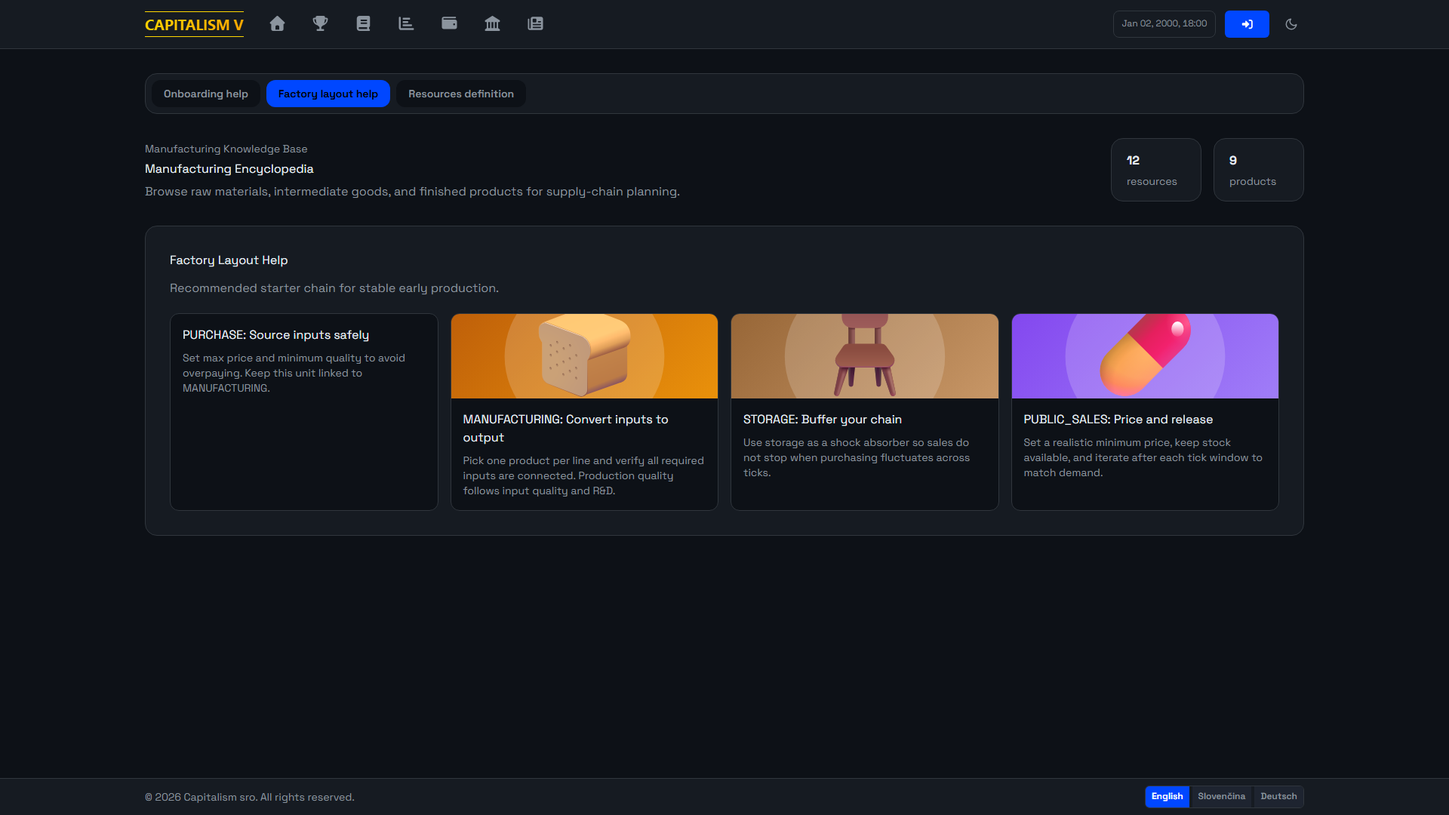
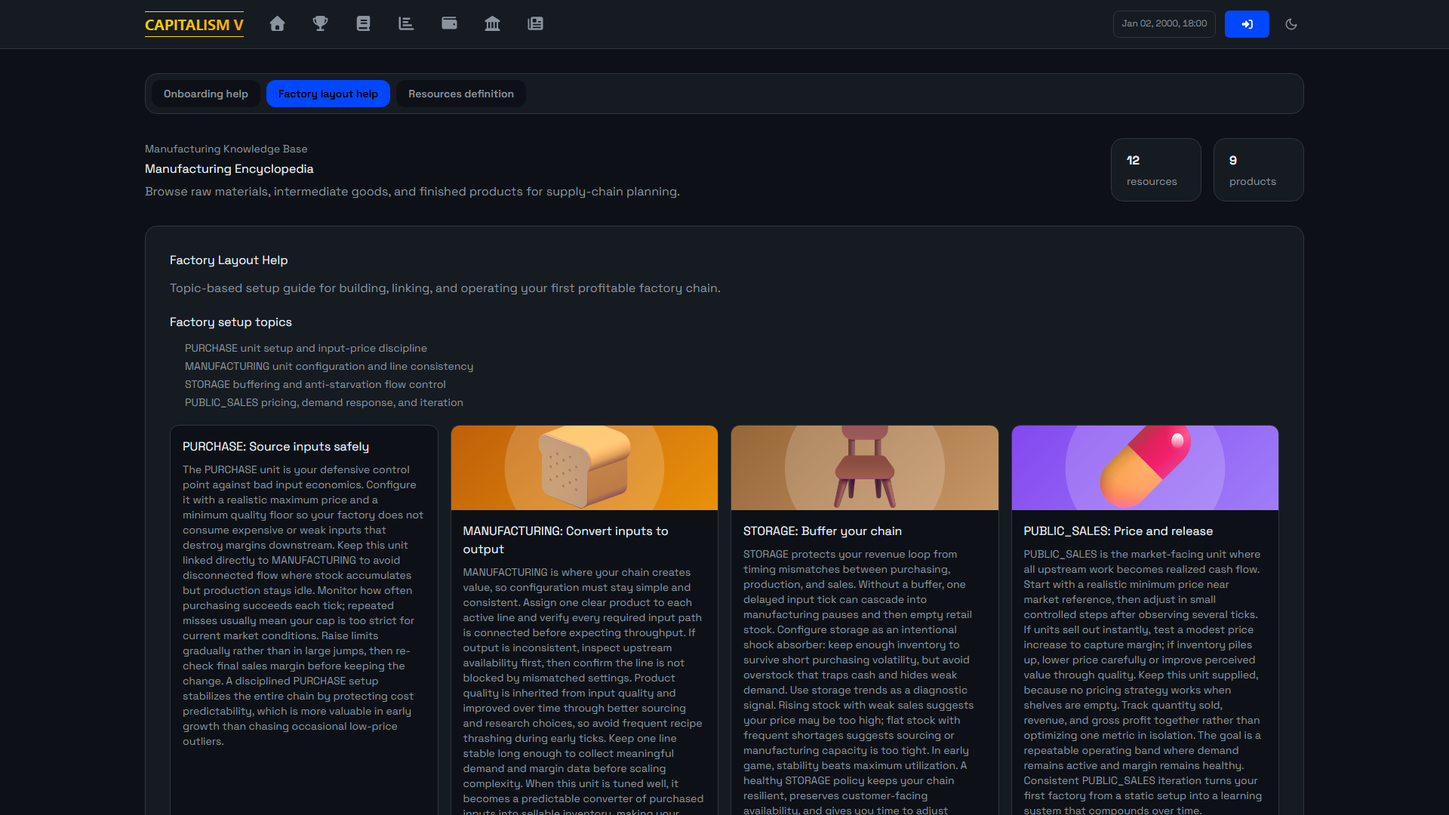
Refactor code structure for improved readability and maintainability

Changed region(s): [[0.125, 0.3361, 0.9062, 1.0], [0.0938, 0.9472, 0.25, 1.0]]

diff --git a/projects/frontend/src/i18n/locales/de.ts b/projects/frontend/src/i18n/locales/de.ts
@@ -625,17 +625,23 @@ export default {
     onboardingGuideTitle: 'Onboarding-Hilfe',
     onboardingGuideSubtitle: 'Eine vollständige Screenshot-Anleitung durch jede Onboarding-Entscheidung von Branche bis zum ersten Shop.',
     onboardingGuideStep1Title: 'Schritt 1 - Startbranche wählen',
-    onboardingGuideStep1Body: 'Sie wählen Ihren Business-Stil und Ihr Risikoprofil. Möbel ist meist der stabilste Einstieg, Food ist volumengetrieben, Healthcare zielt auf höhere Stückmargen.',
+    onboardingGuideStep1Body:
+      'In diesem Schritt legen Sie die unternehmerische Identität fest, auf der Ihr gesamter Start basiert. Möbel ist der robusteste Einstieg, weil die ersten Inputketten einfacher sind und die Nachfrage meist stabil bleibt. Lebensmittelverarbeitung trainiert Volumensteuerung, bei der kleine Preisänderungen große Absatzwirkungen haben können. Gesundheitswesen startet anspruchsvoller, belohnt aber saubere Ausführung mit höheren Margen pro Einheit. Vergleichen Sie beim Auswählen Starterprodukte, Herstellungstempo und die operative Komplexität, die Sie in Ihrer ersten Stunde tragen möchten. Ihre Branchenwahl bestimmt Produktionsrhythmus, frühe Preisstrategie und wie schnell Sie einen verlässlichen Cashflow erreichen, der für Expansion in weitere Produkte oder Städte geeignet ist.',
     onboardingGuideStep2Title: 'Schritt 2 - Starterprodukt festlegen',
-    onboardingGuideStep2Body: 'Sie fixieren das erste Produkt Ihrer Kette. Diese Wahl steuert die ersten Inputs, Zielpreise und die frühe Nachfragesensitivität.',
+    onboardingGuideStep2Body:
+      'Hier fixieren Sie das konkrete Starterprodukt, das Ihre erste Fabrik herstellt und Ihr erster Shop verkauft. Diese Entscheidung ist nicht nur visuell, sondern ändert Inputbedarf, Kostenverhalten und Ihren realistischen Einstiegspreisbereich. Lesen Sie Produktkarte, Basispreis und Fertigungstakt genau, denn diese Werte prägen frühe Marge und Lagerumschlag. Ein schnelleres Produkt gibt Ihnen schnelleres Lernfeedback, ein höherpreisiges Produkt verstärkt dagegen Fehlkonfigurationen stärker. Wählen Sie mit Blick auf die ersten zehn Ticks: genug Nachfrage für klare Signale, genug Marge für Stabilität und eine Kette, die Sie ohne Überforderung steuern können. So erhalten Sie früh belastbare Daten, statt in den ersten Runden nur auf kurzfristige Zufälle zu reagieren.',
     onboardingGuideStep3Title: 'Schritt 3 - Stadt auswählen',
-    onboardingGuideStep3Body: 'Sie legen den Stadtkontext fest. Währung, Grundstücksverfügbarkeit und lokale Ökonomie beeinflussen sofort Kosten und spätere Expansion.',
+    onboardingGuideStep3Body:
+      'Mit der Stadtwahl definieren Sie Ihr wirtschaftliches Startgelände. Der Währungskontext beeinflusst Preiswahrnehmung, Budgetvergleich und die praktische Bezahlbarkeit von Grundstücken und Folgeschritten. Die Verfügbarkeit passender Lots entscheidet, wie schnell Sie ohne Überzahlung eine lauffähige Kette aufbauen. Lokale Marktbedingungen wirken auf Nachfrage und darauf, wie aggressiv Ihre erste Verkaufspreissetzung sein darf. Denken Sie strategisch: Sie brauchen nicht die prestigeträchtigste Lage, sondern ein Umfeld, das Fabrik- und Shopkauf ermöglicht und gleichzeitig Liquidität für Betriebsschwankungen lässt. Wenn nach den beiden Grundstückskäufen kaum Reserve übrig bleibt, wird jede kleine Abweichung im Einkauf oder Verkauf kritisch. Eine kluge Stadtwahl schafft daher operativen Spielraum und beschleunigt sichere Lernzyklen.',
     onboardingGuideStep4Title: 'Schritt 4 - IPO-Plan wählen',
-    onboardingGuideStep4Body: 'Sie balancieren Gründeranteil gegen Startkapital. Mehr externes Kapital erhöht die Startreserve, reduziert aber Ihren Eigentumsanteil.',
+    onboardingGuideStep4Body:
+      'Der IPO-Plan ist ein bewusstes Verhältnis von Kontrolle zu Startreichweite. Niedrigeres Raise hält Ihren Gründeranteil höher, reduziert jedoch die Liquiditätsreserve für Grundstücke, Konfiguration und frühe Fehlentscheidungen. Höheres Raise gibt Sicherheit und mehr operative Luft, verwässert dafür Ihren Eigentumsanteil stärker. Es gibt keine universelle Bestwahl: Anfänger profitieren oft von zusätzlichem Puffer, erfahrene Spieler können mit engerem Kapital effizienter starten. Lesen Sie Founder Ownership und Public Float als strategische Hebel, nicht als reine Anzeigezahlen. Diese Werte prägen, wie risikofreudig Sie in den ersten Zyklen agieren können und wie stark Ihr langfristiger Vermögensaufbau pro erfolgreicher Expansion ausfällt. Ein passender IPO-Plan stabilisiert die erste Woche Ihrer Wirtschaftssimulation spürbar.',
     onboardingGuideStep5Title: 'Schritt 5 - Erstes Fabrikgrundstück kaufen',
-    onboardingGuideStep5Body: 'Sie sichern den Produktionsstandort und bestätigen den Einsatz von Firmengeldern. Halten Sie genug Kapital für Einheiten und den Shopkauf zurück.',
+    onboardingGuideStep5Body:
+      'Jetzt wird aus Planung ein realer Produktionsstandort. Mit dem Kauf des ersten Fabrik-Lots binden Sie Kapital und definieren die physische Basis Ihrer Lieferkette. Entscheiden Sie nicht nach Prestige, sondern nach Überlebensfähigkeit der nächsten Schritte. Nach diesem Kauf benötigen Sie weiterhin Mittel für den Shop-Lot und genügend Reserve für operative Anpassungen. Nutzen Sie Karten- oder Listenansicht, vergleichen Sie Optionen und wählen Sie ein Lot, das Ihre Strategie finanziell flexibel hält. Ein etwas günstigeres Grundstück liefert oft den besseren Start, weil Sie Einkauf, Preisanpassung und Taktfehler ohne sofortigen Liquiditätsdruck abfedern können. Betrachten Sie den Fabrikkauf als Kettenanker: Er muss nicht nur passen, sondern den gesamten Startprozess stabil tragen.',
     onboardingGuideStep6Title: 'Schritt 6 - Erstes Shopgrundstück kaufen',
-    onboardingGuideStep6Body: 'Sie schließen den ersten Go-to-Market-Pfad ab. Nach der Konfiguration bestimmen ÖFFENTLICHER_VERKAUF-Preise und Tick-Timing die Geschwindigkeit der ersten Umsätze.',
+    onboardingGuideStep6Body:
+      'Mit diesem letzten Kauf schließen Sie Ihren ersten Go-to-Market-Pfad. Das Shop-Lot ist die Stelle, an der Produktionsleistung in echten Umsatz übergeht. Nach dem Kauf folgt die entscheidende operative Feinarbeit: PUBLIC_SALES sauber konfigurieren, realistischen Mindestpreis setzen, Bestandsfluss sicherstellen und die nächsten Ticks aufmerksam beobachten. Zu Beginn ist Lernqualität wichtiger als Maximalmarge, daher sollte die Preisstrategie schnelle Rückmeldung ermöglichen. Sobald die ersten Verkäufe erscheinen, können Sie strukturiert mit Preiselastizität experimentieren und die Marge kontrolliert erhöhen. Wenn dieser Schritt sauber gelingt, entsteht ein stabiler Kreislauf aus Produktion, Verkauf und Auswertung. Genau dieser Kreislauf macht den Übergang vom Onboarding zur skalierbaren Unternehmensführung möglich.',
     onboardingGuideStepIndustryTitle: '1. Startbranche wählen',
     onboardingGuideStepIndustryBody: 'Wählen Sie Möbel, Lebensmittelverarbeitung oder Gesundheitswesen. Das bestimmt Ihre erste Lieferkette und Preislogik.',
     onboardingGuideStepProductTitle: '2. Erstes Produkt festlegen',
@@ -645,15 +651,24 @@ export default {
     onboardingGuideStepShopTitle: '4. Ersten Shop öffnen',
     onboardingGuideStepShopBody: 'Kaufen Sie das Shop-Grundstück, konfigurieren Sie den ÖFFENTLICHEN_VERKAUF und beobachten Sie die nächsten Ticks für den ersten Umsatz.',
     manufacturingGuideTitle: 'Fabriklayout-Hilfe',
-    manufacturingGuideSubtitle: 'Empfohlene Starterkette für stabile frühe Produktion.',
+    manufacturingGuideSubtitle: 'Themenorientierter Leitfaden zum Aufbau, zur Verknüpfung und zum stabilen Betrieb Ihrer ersten profitablen Fabrikkette.',
+    manufacturingGuideTopicsTitle: 'Themen für das Fabrik-Setup',
+    manufacturingGuideTopicPurchase: 'EINKAUF konfigurieren und Inputkosten diszipliniert steuern',
+    manufacturingGuideTopicManufacturing: 'PRODUKTION sauber einstellen und Linienkonsistenz sichern',
+    manufacturingGuideTopicStorage: 'LAGER als Puffer gegen Kettenunterbrechungen nutzen',
+    manufacturingGuideTopicPublicSales: 'ÖFFENTLICHER_VERKAUF bepreisen und nach Nachfrage iterieren',
     manufacturingGuideStepPurchaseTitle: 'EINKAUF: Inputs sicher beschaffen',
-    manufacturingGuideStepPurchaseBody: 'Setzen Sie Maximalpreis und Mindestqualität, um Überzahlung zu vermeiden. Diese Einheit mit PRODUKTION verlinken.',
+    manufacturingGuideStepPurchaseBody:
+      'Die EINKAUF-Einheit ist Ihr Kosten-Schutzschild. Konfigurieren Sie einen sinnvollen Maximalpreis und eine Mindestqualität, damit Ihre Fabrik keine teuren oder schwachen Inputs konsumiert, die später Marge vernichten. Halten Sie die Einheit direkt mit PRODUKTION verbunden, sonst sammeln sich Bestände, ohne dass Output entsteht. Beobachten Sie Tick für Tick, wie oft Beschaffung erfolgreich läuft. Häufige Fehlschläge deuten oft auf zu enge Limits im aktuellen Markt hin. Erhöhen Sie Grenzen schrittweise und prüfen Sie danach immer den Effekt auf den realen Verkaufsgewinn. Eine disziplinierte EINKAUF-Konfiguration macht Kosten planbar und stabilisiert die gesamte Kette. Gerade im frühen Spiel ist diese Vorhersehbarkeit wertvoller als sporadische Schnäppchen mit hohem Ausfallrisiko.',
     manufacturingGuideStepManufactureTitle: 'PRODUKTION: Inputs in Output umwandeln',
-    manufacturingGuideStepManufactureBody: 'Wählen Sie pro Linie ein Produkt und prüfen Sie alle verbundenen Inputs. Die Qualität folgt Inputs und F&E.',
+    manufacturingGuideStepManufactureBody:
+      'In der PRODUKTION entsteht Ihr eigentlicher Wert, daher braucht diese Einheit klare und stabile Regeln. Legen Sie pro Linie ein Produkt fest und prüfen Sie vor dem Start alle notwendigen Inputverbindungen. Bei unregelmäßigem Output kontrollieren Sie zuerst Inputverfügbarkeit und Verlinkung, bevor Sie an anderen Parametern drehen. Produktqualität wird aus Inputqualität und Forschungsniveau abgeleitet, deshalb ist hektisches Umstellen in frühen Ticks meist kontraproduktiv. Lassen Sie eine Linie lange genug stabil laufen, um brauchbare Daten zu Nachfrage, Durchsatz und Marge zu erhalten. So treffen Sie Entscheidungen auf Basis echter Kennzahlen statt Momentgefühl. Eine sauber konfigurierte PRODUKTION verwandelt Einkauf zuverlässig in verkaufsfähigen Bestand und bildet das Herz einer skalierbaren Fabrikstrategie.',
     manufacturingGuideStepStorageTitle: 'LAGER: Kette puffern',
-    manufacturingGuideStepStorageBody: 'Nutzen Sie Lager als Puffer, damit Verkäufe bei schwankendem Einkauf über Ticks hinweg nicht aussetzen.',
+    manufacturingGuideStepStorageBody:
+      'LAGER verhindert, dass kleine Timingfehler sofort Umsatzausfälle auslösen. Ohne Puffer kann ein schwacher Einkaufstakt zu Produktionsstillstand und danach zu leerem Verkauf führen. Konfigurieren Sie Lager bewusst als Stoßdämpfer: genug Bestand für kurze Schwankungen, aber nicht so viel, dass zu viel Kapital gebunden bleibt. Lagertrends sind außerdem Diagnosewerkzeug. Wachsende Bestände bei schwachem Absatz deuten oft auf zu hohe Preise hin. Dauerhafte Knappheit trotz Nachfrage weist auf Engpässe bei Einkauf oder Produktionskapazität hin. In der Startphase zählt Stabilität mehr als maximale Auslastung. Ein gutes LAGER-Setup sorgt für gleichmäßigen Fluss, schützt vor abrupten Kettenabbrüchen und gibt Ihnen Zeit, Preise und Beschaffung ohne Panik zu verbessern.',
     manufacturingGuideStepPublicSalesTitle: 'ÖFFENTLICHER_VERKAUF: Preis setzen und freigeben',
-    manufacturingGuideStepPublicSalesBody: 'Setzen Sie einen realistischen Mindestpreis, halten Sie Bestand verfügbar und iterieren Sie nach jedem Tickfenster.',
+    manufacturingGuideStepPublicSalesBody:
+      'ÖFFENTLICHER_VERKAUF ist die Marktschnittstelle Ihrer Fabrik. Hier wird aus interner Effizienz tatsächlicher Cashflow. Starten Sie mit einem realistischen Mindestpreis nahe dem Marktanker und justieren Sie in kleinen Schritten nach mehreren beobachteten Ticks. Wenn Ware sofort ausverkauft ist, testen Sie moderate Preiserhöhungen für bessere Marge. Wenn Bestand liegen bleibt, senken Sie behutsam oder verbessern Sie die wahrgenommene Qualität. Wichtig ist kontinuierliche Verfügbarkeit, denn jede Preisstrategie scheitert bei leerem Regal. Bewerten Sie Menge, Umsatz und Bruttogewinn gemeinsam statt isoliert. Ziel ist ein wiederholbarer Betriebsbereich, in dem Nachfrage aktiv bleibt und Marge gesund ist. Genau diese iterative Disziplin macht Ihre erste Produktionskette langfristig tragfähig und skalierbar.',
     viewDetail: 'Detail anzeigen',
     searchNoResults: 'Keine Ressourcen oder Produkte entsprechen Ihrer Suche. Versuchen Sie einen anderen Begriff oder löschen Sie die Filter.',
   },

diff --git a/projects/frontend/src/i18n/locales/en.ts b/projects/frontend/src/i18n/locales/en.ts
@@ -626,17 +626,23 @@ export default {
     onboardingGuideTitle: 'Onboarding Help',
     onboardingGuideSubtitle: 'A complete screenshot walkthrough of every onboarding decision from industry to first shop.',
     onboardingGuideStep1Title: 'Step 1 - Choose your industry',
-    onboardingGuideStep1Body: 'You choose your business fantasy and risk profile. Furniture is usually the smoothest opening, Food is volume-focused, and Healthcare targets higher unit margins.',
+    onboardingGuideStep1Body:
+      'In this step, you choose the business identity your company will grow around. Furniture is the most forgiving opening because input chains are simple and early demand is stable. Food Processing teaches volume management, where small pricing changes can move many units quickly. Healthcare starts slower but rewards disciplined setup with stronger margins per sale. While selecting, compare starter products, expected selling prices, and the operational complexity you are willing to manage in your first hour. Your industry choice defines your first production rhythm, the quality strategy you will optimize, and how quickly your first cash-flow loop becomes reliable enough to scale into a second city or product line.',
     onboardingGuideStep2Title: 'Step 2 - Select your starter product',
-    onboardingGuideStep2Body: 'You lock the first product your chain will produce. This decision drives your first input requirements, target price, and early demand sensitivity.',
+    onboardingGuideStep2Body:
+      'Here you lock the exact starter product your first factory and shop will support. This is not only a cosmetic pick; it changes raw input requirements, labor and energy behavior, and your first realistic price corridor. Read the product card carefully, especially base price and craft timing, because those values shape your early margin and inventory turnover. A product with faster cycles can generate quicker learning feedback, while a higher-price product can amplify mistakes if stock flow is unstable. Choose with your first ten ticks in mind: you want enough demand to validate your setup, enough margin to survive mistakes, and a simple enough chain that you can confidently adjust pricing after your first sales signal appears.',
     onboardingGuideStep3Title: 'Step 3 - Pick your city',
-    onboardingGuideStep3Body: 'You select the launch city context. Currency, lot availability, and local economics now affect affordability and later expansion decisions.',
+    onboardingGuideStep3Body:
+      'The city choice defines your opening economic environment. Currency context changes how prices are displayed and what feels affordable when you compare lots, operating costs, and expansion plans. Lot availability determines how quickly you can secure a production footprint without overpaying. Population and city conditions influence sales potential and how aggressively you can set prices in your first retail unit. Think of this as choosing your launch terrain: some cities reward careful cost control, others reward faster scaling once your chain is stable. Select a city where you can afford both your factory lot and your first shop lot without draining all liquidity, so your company can still absorb purchasing, labor, and timing volatility in the next tick cycles.',
     onboardingGuideStep4Title: 'Step 4 - Choose IPO plan',
-    onboardingGuideStep4Body: 'You set founder ownership versus starting capital. Higher external raise gives more runway, but your ownership percentage decreases.',
+    onboardingGuideStep4Body:
+      'This screen balances control against runway. A lower raise preserves founder ownership but leaves less working capital for lot purchases, unit setup, and early operating mistakes. A higher raise gives stronger liquidity and more room to recover from poor pricing or temporary stock imbalances, but it dilutes your founder stake. There is no universally best option; the right choice depends on your confidence and play style. If this is your first run, extra cash can reduce stress and help you learn faster. If you already know the setup sequence, a tighter raise can keep ownership stronger. Read the ownership and public-float values as strategic levers, not just numbers, because they shape both your short-term safety and long-term wealth trajectory.',
     onboardingGuideStep5Title: 'Step 5 - Buy first factory lot',
-    onboardingGuideStep5Body: 'You reserve the production lot and confirm company-fund usage. Keep enough capital for units and the next sales-shop purchase.',
+    onboardingGuideStep5Body:
+      'Now you commit to physical production by purchasing your first factory-capable lot. This decision converts your strategy into an operational footprint and immediately affects your remaining cash buffer. Do not optimize for prestige or district name; optimize for survivability across the next setup steps. You still need enough money for your sales shop lot and for basic operating pressure after activation. Use the lot list or map to compare options quickly, then choose a location that keeps your launch plan financially flexible. A slightly cheaper lot often creates a better first week because you can absorb sourcing costs and adjust configuration without panic. Treat this purchase as the anchor of your supply chain, not as an isolated real-estate decision.',
     onboardingGuideStep6Title: 'Step 6 - Buy first sales-shop lot',
-    onboardingGuideStep6Body: 'You complete the first go-to-market path. After configuration, PUBLIC_SALES pricing and tick timing determine how fast first revenue appears.',
+    onboardingGuideStep6Body:
+      'This final onboarding purchase opens your go-to-market path. The shop lot is where production becomes revenue, so this step marks the transition from setup to live execution. After buying the lot, your next priority is clean PUBLIC_SALES configuration: set a realistic minimum price, ensure inventory can arrive from upstream flow, and watch the next ticks for your first real sale record. Early pricing should favor learning and turnover, not maximum margin, because fast feedback helps you correct issues sooner. Once the first sales appear, you can tighten margins and test demand elasticity with controlled changes. If this step is handled well, your company enters a stable loop where each tick produces data you can use to compound growth.',
     onboardingGuideStepIndustryTitle: '1. Pick your starting industry',
     onboardingGuideStepIndustryBody: 'Choose Furniture, Food Processing, or Healthcare. This decides your first supply chain and starter pricing logic.',
     onboardingGuideStepProductTitle: '2. Lock your first product',
@@ -646,15 +652,24 @@ export default {
     onboardingGuideStepShopTitle: '4. Open your first sales shop',
     onboardingGuideStepShopBody: 'Buy the shop lot, configure PUBLIC_SALES pricing, and watch the next ticks for your first real revenue signal.',
     manufacturingGuideTitle: 'Factory Layout Help',
-    manufacturingGuideSubtitle: 'Recommended starter chain for stable early production.',
+    manufacturingGuideSubtitle: 'Topic-based setup guide for building, linking, and operating your first profitable factory chain.',
+    manufacturingGuideTopicsTitle: 'Factory setup topics',
+    manufacturingGuideTopicPurchase: 'PURCHASE unit setup and input-price discipline',
+    manufacturingGuideTopicManufacturing: 'MANUFACTURING unit configuration and line consistency',
+    manufacturingGuideTopicStorage: 'STORAGE buffering and anti-starvation flow control',
+    manufacturingGuideTopicPublicSales: 'PUBLIC_SALES pricing, demand response, and iteration',
     manufacturingGuideStepPurchaseTitle: 'PURCHASE: Source inputs safely',
-    manufacturingGuideStepPurchaseBody: 'Set max price and minimum quality to avoid overpaying. Keep this unit linked to MANUFACTURING.',
+    manufacturingGuideStepPurchaseBody:
+      'The PURCHASE unit is your defensive control point against bad input economics. Configure it with a realistic maximum price and a minimum quality floor so your factory does not consume expensive or weak inputs that destroy margins downstream. Keep this unit linked directly to MANUFACTURING to avoid disconnected flow where stock accumulates but production stays idle. Monitor how often purchasing succeeds each tick; repeated misses usually mean your cap is too strict for current market conditions. Raise limits gradually rather than in large jumps, then re-check final sales margin before keeping the change. A disciplined PURCHASE setup stabilizes the entire chain by protecting cost predictability, which is more valuable in early growth than chasing occasional low-price outliers.',
     manufacturingGuideStepManufactureTitle: 'MANUFACTURING: Convert inputs to output',
-    manufacturingGuideStepManufactureBody: 'Pick one product per line and verify all required inputs are connected. Production quality follows input quality and R&D.',
+    manufacturingGuideStepManufactureBody:
+      'MANUFACTURING is where your chain creates value, so configuration must stay simple and consistent. Assign one clear product to each active line and verify every required input path is connected before expecting throughput. If output is inconsistent, inspect upstream availability first, then confirm the line is not blocked by mismatched settings. Product quality is inherited from input quality and improved over time through better sourcing and research choices, so avoid frequent recipe thrashing during early ticks. Keep one line stable long enough to collect meaningful demand and margin data before scaling complexity. When this unit is tuned well, it becomes a predictable converter of purchased inputs into sellable inventory, making your pricing and expansion decisions evidence-based instead of reactive.',
     manufacturingGuideStepStorageTitle: 'STORAGE: Buffer your chain',
-    manufacturingGuideStepStorageBody: 'Use storage as a shock absorber so sales do not stop when purchasing fluctuates across ticks.',
+    manufacturingGuideStepStorageBody:
+      'STORAGE protects your revenue loop from timing mismatches between purchasing, production, and sales. Without a buffer, one delayed input tick can cascade into manufacturing pauses and then empty retail stock. Configure storage as an intentional shock absorber: keep enough inventory to survive short purchasing volatility, but avoid overstock that traps cash and hides weak demand. Use storage trends as a diagnostic signal. Rising stock with weak sales suggests your price may be too high; flat stock with frequent shortages suggests sourcing or manufacturing capacity is too tight. In early game, stability beats maximum utilization. A healthy STORAGE policy keeps your chain resilient, preserves customer-facing availability, and gives you time to adjust strategy without abrupt revenue drop-offs.',
     manufacturingGuideStepPublicSalesTitle: 'PUBLIC_SALES: Price and release',
-    manufacturingGuideStepPublicSalesBody: 'Set a realistic minimum price, keep stock available, and iterate after each tick window to match demand.',
+    manufacturingGuideStepPublicSalesBody:
+      'PUBLIC_SALES is the market-facing unit where all upstream work becomes realized cash flow. Start with a realistic minimum price near market reference, then adjust in small controlled steps after observing several ticks. If units sell out instantly, test a modest price increase to capture margin; if inventory piles up, lower price carefully or improve perceived value through quality. Keep this unit supplied, because no pricing strategy works when shelves are empty. Track quantity sold, revenue, and gross profit together rather than optimizing one metric in isolation. The goal is a repeatable operating band where demand remains active and margin remains healthy. Consistent PUBLIC_SALES iteration turns your first factory from a static setup into a learning system that compounds over time.',
     viewDetail: 'View detail',
     searchNoResults: 'No resources or products match your search. Try a different term or clear the filters.',
   },

diff --git a/projects/frontend/src/i18n/locales/sk.ts b/projects/frontend/src/i18n/locales/sk.ts
@@ -624,17 +624,23 @@ export default {
     onboardingGuideTitle: 'Pomoc s onboardingom',
     onboardingGuideSubtitle: 'Kompletný sprievodca so screenshotmi cez všetky onboarding rozhodnutia od odvetvia po prvú predajňu.',
     onboardingGuideStep1Title: 'Krok 1 - Výber odvetvia',
-    onboardingGuideStep1Body: 'Vyberáte podnikateľský štýl a rizikový profil. Nábytok je najstabilnejší štart, Potraviny sú o objeme a Zdravotníctvo cieli vyššie marže na kus.',
+    onboardingGuideStep1Body:
+      'V tomto kroku si vyberáte podnikateľskú identitu, podľa ktorej sa bude formovať celý váš prvý biznis. Nábytok je najbezpečnejší štart, pretože má jednoduchší vstupný reťazec a stabilný dopyt. Potravinárstvo vás učí pracovať s objemom, kde malé zmeny ceny dokážu výrazne pohnúť predajmi. Zdravotníctvo je náročnejšie na disciplínu, ale odmeňuje vyššou maržou na jednotku. Pri výbere porovnajte štartové produkty, rýchlosť výroby a to, koľko zložitosti chcete riešiť v prvých tickoch. Toto rozhodnutie určí váš prvý výrobný rytmus, spôsob cenotvorby aj tempo, akým sa dostanete k stabilnému cash-flow vhodnému na expanziu.',
     onboardingGuideStep2Title: 'Krok 2 - Výber štartového produktu',
-    onboardingGuideStep2Body: 'Uzamknete prvý produkt pre výrobný reťazec. Toto rozhodnutie určí vstupné suroviny, cieľovú cenu a citlivosť na dopyt.',
+    onboardingGuideStep2Body:
+      'Tu definitívne uzamknete produkt, ktorý bude vaša prvá továreň vyrábať a predajňa predávať. Nie je to len vizuálna voľba. Mení sa tým potrebný vstupný materiál, očakávané náklady na výrobný cyklus aj realistický cenový koridor pre prvé predaje. Pozrite si základnú cenu, recept a tempo craftu, pretože práve tieto údaje ovplyvnia vašu počiatočnú maržu a obrátku zásob. Produkt s rýchlym cyklom prináša rýchlejšiu spätnú väzbu, produkt s vyššou cenou zase zosilní chyby pri zlej konfigurácii. Vyberajte tak, aby ste v prvých desiatich tickoch zvládli dopyt, maržu aj jednoduchosť nastavovania bez zbytočného chaosu.',
     onboardingGuideStep3Title: 'Krok 3 - Výber mesta',
-    onboardingGuideStep3Body: 'Zvolíte mestský kontext štartu. Mena, dostupnosť pozemkov a lokálna ekonomika ovplyvnia dostupnosť aj ďalšiu expanziu.',
+    onboardingGuideStep3Body:
+      'Výber mesta určuje ekonomické prostredie vášho štartu. Mena ovplyvňuje spôsob, akým čítate ceny, dostupnosť kapitálu a porovnávanie investícií medzi lotmi. Dostupnosť pozemkov rozhodne, či viete rýchlo spustiť výrobný reťazec bez preplácania. Lokálna ekonomika a veľkosť trhu zas vplývajú na to, ako agresívne môžete nastaviť predajnú cenu v prvých kolách. Berte to ako výber terénu pre celý launch: niekde je výhodnejšia stabilita a opatrné náklady, inde rýchlejší rast po rozbehu. Kľúčové je nevyčerpať sa pri nákupoch lotov, aby vám ostala rezerva na nákup vstupov, mzdy a doladenie konfigurácie v nasledujúcich tickoch.',
     onboardingGuideStep4Title: 'Krok 4 - Voľba IPO plánu',
-    onboardingGuideStep4Body: 'Nastavíte pomer podielu zakladateľa a štartového kapitálu. Vyšší externý kapitál zvyšuje rezervu, no znižuje vlastnícky podiel.',
+    onboardingGuideStep4Body:
+      'IPO plán je strategický kompromis medzi kontrolou a runway. Nižší úpis ponechá zakladateľovi silnejší podiel, ale dá firme menej hotovosti na loty, jednotky a počiatočné chyby. Vyšší úpis pridá bezpečnostnú rezervu a zníži tlak pri prvých rozhodnutiach, no zároveň oslabí váš vlastnícky podiel. Správna voľba závisí od skúsenosti a štýlu hry. Ak onboarding robíte prvýkrát, vyššia hotovosť pomáha zvládnuť učenie bez kritického stresu. Ak už viete presné kroky, môžete ísť efektívnejšie cez nižší úpis. Čítajte hodnoty founder ownership a public float ako riadiace páky dlhodobej stratégie, nie iba ako čísla na obrazovke.',
     onboardingGuideStep5Title: 'Krok 5 - Kúpa prvého lotu pre továreň',
-    onboardingGuideStep5Body: 'Rezervujete výrobný pozemok a potvrdíte použitie firemných peňazí. Nechajte dostatok kapitálu na jednotky a následnú kúpu predajne.',
+    onboardingGuideStep5Body:
+      'V tomto bode meníte plán na fyzickú výrobnú stopu. Kúpa prvého továrenského lotu priamo ovplyvní zostatok hotovosti, s ktorým vstupujete do konfigurácie jednotiek a ďalšieho nákupu predajne. Neoptimalizujte podľa názvu štvrte, ale podľa prežitia prvého produkčného cyklu. Potrebujete kapitál nielen na lot, ale aj na bezpečný prechod do ďalších krokov bez núdzových rozhodnutí. V zozname alebo na mape porovnajte varianty a vyberte taký lot, ktorý nechá rezervu na prevádzkové výkyvy. Mierne lacnejší lot často znamená lepší štart, pretože v prvých tickoch máte priestor na korekcie cenotvorby aj nákupu vstupov bez okamžitého tlaku na likviditu.',
     onboardingGuideStep6Title: 'Krok 6 - Kúpa prvého lotu pre predajňu',
-    onboardingGuideStep6Body: 'Dokončíte prvú cestu na trh. Po konfigurácii rozhodujú nastavenie VEREJNÉHO_PREDAJA a timing tickov o rýchlosti prvých tržieb.',
+    onboardingGuideStep6Body:
+      'Posledným onboarding nákupom dokončíte prvú cestu produktu k zákazníkovi. Predajný lot je miesto, kde sa výroba mení na tržby, preto je tento krok prechodom z prípravy do aktívnej exekúcie. Po kúpe sa sústreďte na čisté nastavenie VEREJNÉHO_PREDAJA: realistická minimálna cena, dostupnosť zásob a pozorovanie nasledujúcich tickov, kým príde prvý reálny predaj. Na začiatku je dôležitejšia rýchla spätná väzba než maximalizácia marže, preto nastavujte cenu tak, aby sa tovar hýbal. Keď sa objaví prvý predajný signál, môžete systematicky testovať elasticitu dopytu a dolaďovať maržu. Tento krok uzatvára onboarding a štartuje opakovateľnú rastovú slučku.',
     onboardingGuideStepIndustryTitle: '1. Vyberte štartové odvetvie',
     onboardingGuideStepIndustryBody: 'Vyberte Nábytok, Potravinárstvo alebo Zdravotníctvo. To určí prvý dodávateľský reťazec aj cenovú logiku.',
     onboardingGuideStepProductTitle: '2. Uzamknite prvý produkt',
@@ -644,15 +650,24 @@ export default {
     onboardingGuideStepShopTitle: '4. Otvorte prvú predajňu',
     onboardingGuideStepShopBody: 'Kúpte lot predajne, nastavte cenu vo VEREJNOM_PREDAJI a sledujte ďalšie ticky kvôli prvému príjmu.',
     manufacturingGuideTitle: 'Pomoc s layoutom tovární',
-    manufacturingGuideSubtitle: 'Odporúčaný štartový reťazec pre stabilnú skorú produkciu.',
+    manufacturingGuideSubtitle: 'Témový návod na vytvorenie, prepojenie a stabilnú prevádzku prvého ziskového výrobného reťazca.',
+    manufacturingGuideTopicsTitle: 'Témy nastavenia továrne',
+    manufacturingGuideTopicPurchase: 'Nastavenie jednotky NÁKUP a cenová disciplína vstupov',
+    manufacturingGuideTopicManufacturing: 'Konfigurácia jednotky VÝROBA a konzistentná linka',
+    manufacturingGuideTopicStorage: 'Tlmenie výkyvov cez SKLAD a ochrana proti výpadkom',
+    manufacturingGuideTopicPublicSales: 'Cenotvorba vo VEREJNOM_PREDAJI a iterácie podľa dopytu',
     manufacturingGuideStepPurchaseTitle: 'NÁKUP: Bezpečný sourcing vstupov',
-    manufacturingGuideStepPurchaseBody: 'Nastavte max cenu a minimálnu kvalitu, aby ste nepreplácali. Túto jednotku držte prepojenú s VÝROBOU.',
+    manufacturingGuideStepPurchaseBody:
+      'Jednotka NÁKUP je obranný bod celej ekonomiky linky. Nastavte maximálnu cenu a minimálnu kvalitu tak, aby ste neplatili prehnane drahé alebo slabé vstupy, ktoré neskôr zničia maržu. Udržte túto jednotku priamo prepojenú s VÝROBOU, inak sa môže stať, že zásoby budú rásť, ale výroba zostane neaktívna. Sledujte, ako často nákup prejde v každom ticku. Ak často zlyháva, býva limit príliš prísny pre aktuálny trh. Limity dvíhajte postupne, nie skokovo, a vždy kontrolujte dopad na hrubý zisk vo finálnom predaji. Dobre nastavený NÁKUP dá celej továrni predvídateľné náklady, čo je v early game dôležitejšie než naháňanie extrémnych výhod.',
     manufacturingGuideStepManufactureTitle: 'VÝROBA: Premeňte vstupy na výstup',
-    manufacturingGuideStepManufactureBody: 'Na linku vyberte jeden produkt a overte, že sú pripojené všetky potrebné vstupy. Kvalita závisí od vstupov a V&V.',
+    manufacturingGuideStepManufactureBody:
+      'VÝROBA je miesto, kde vzniká hodnota, preto musí byť konfigurácia jednoduchá a konzistentná. Na jednu linku nastavte jeden jasný produkt a pred spustením overte, že všetky povinné vstupy majú funkčné prepojenie. Ak výstup kolíše, najprv skontrolujte dostupnosť vstupov a až potom samotnú jednotku. Kvalita výstupu je odvodená od kvality vstupov a postupne ju zlepšuje výskum, preto sa vyhýbajte častému prehadzovaniu produktu v prvých tickoch. Nechajte linku bežať stabilne dostatočne dlho, aby ste získali použiteľné dáta o dopyte, marži a obrátke. Správne nastavená VÝROBA mení nákup na predajný tovar predvídateľným tempom, čo umožní robiť rozhodnutia podľa čísiel, nie pocitu.',
     manufacturingGuideStepStorageTitle: 'SKLAD: Vyrovnávajte výkyvy',
-    manufacturingGuideStepStorageBody: 'Sklad funguje ako tlmič, aby sa predaj nezastavil pri kolísaní nákupu medzi tickmi.',
+    manufacturingGuideStepStorageBody:
+      'SKLAD chráni váš príjem pred časovým nesúladom medzi nákupom, výrobou a predajom. Bez bufferu môže jeden slabý tick nákupu spôsobiť reťazový výpadok výroby a prázdny predaj. Sklad preto nastavujte ako aktívny tlmič: držte zásobu, ktorá pokryje krátke výkyvy, ale neviažte zbytočne veľa kapitálu v nadmerných zásobách. Trend skladu je zároveň diagnostika. Ak zásoby rastú a predaj stagnuje, cena je často príliš vysoká. Ak zásoby miznú a predaj vypadáva, problém býva v nákupe alebo kapacite výroby. V early fáze je stabilita cennejšia než maximálne využitie. Dobrá práca so SKLADOM udrží plynulý tok tovaru a dá vám čas na bezpečné iterácie.',
     manufacturingGuideStepPublicSalesTitle: 'VEREJNÝ_PREDAJ: Cena a predaj',
-    manufacturingGuideStepPublicSalesBody: 'Nastavte realistickú minimálnu cenu, držte zásoby a dolaďujte po každom tick okne podľa dopytu.',
+    manufacturingGuideStepPublicSalesBody:
+      'VEREJNÝ_PREDAJ je trhová brána, kde sa všetka predchádzajúca práca mení na reálny cash-flow. Začnite s minimálnou cenou blízko referenčnej trhovej úrovne a následne upravujte po malých krokoch po niekoľkých tickoch. Ak sa tovar vypredáva okamžite, otestujte mierne zvýšenie ceny pre lepšiu maržu. Ak sa zásoba hromadí, cenu opatrne znížte alebo zvýšte atraktivitu cez kvalitu. Kľúčové je mať konzistentný stock, pretože žiadna cenová stratégia nefunguje pri prázdnom regáli. Sledujte spolu množstvo, tržby aj hrubý zisk, nie iba jednu metriku. Cieľom je nájsť opakovateľný interval, kde dopyt zostáva živý a marža zdravá. Práve táto iterácia robí továreň dlhodobo škálovateľnou.',
     viewDetail: 'Zobraziť detail',
     searchNoResults: 'Žiadne suroviny ani produkty nezodpovedajú vášmu vyhľadávaniu. Skúste iný výraz alebo vymažte filtre.',
   },

diff --git a/projects/frontend/src/views/ManufacturingEncyclopediaView.vue b/projects/frontend/src/views/ManufacturingEncyclopediaView.vue
@@ -89,32 +89,32 @@ const onboardingGuideCards = [
   {
     titleKey: 'encyclopedia.onboardingGuideStep1Title',
     bodyKey: 'encyclopedia.onboardingGuideStep1Body',
-    imageUrl: '/onboarding-help/step-1-industry.svg',
+    imageUrl: '/onboarding-help/step-1-industry.png',
   },
   {
     titleKey: 'encyclopedia.onboardingGuideStep2Title',
     bodyKey: 'encyclopedia.onboardingGuideStep2Body',
-    imageUrl: '/onboarding-help/step-2-product.svg',
+    imageUrl: '/onboarding-help/step-2-product.png',
   },
   {
     titleKey: 'encyclopedia.onboardingGuideStep3Title',
     bodyKey: 'encyclopedia.onboardingGuideStep3Body',
-    imageUrl: '/onboarding-help/step-3-city.svg',
+    imageUrl: '/onboarding-help/step-3-city.png',
   },
   {
     titleKey: 'encyclopedia.onboardingGuideStep4Title',
     bodyKey: 'encyclopedia.onboardingGuideStep4Body',
-    imageUrl: '/onboarding-help/step-4-ipo.svg',
+    imageUrl: '/onboarding-help/step-4-ipo.png',
   },
   {
     titleKey: 'encyclopedia.onboardingGuideStep5Title',
     bodyKey: 'encyclopedia.onboardingGuideStep5Body',
-    imageUrl: '/onboarding-help/step-5-factory-lot.svg',
+    imageUrl: '/onboarding-help/step-5-factory-lot.png',
   },
   {
     titleKey: 'encyclopedia.onboardingGuideStep6Title',
     bodyKey: 'encyclopedia.onboardingGuideStep6Body',
-    imageUrl: '/onboarding-help/step-6-shop-lot.svg',
+    imageUrl: '/onboarding-help/step-6-shop-lot.png',
   },
 ]
 
@@ -139,6 +139,13 @@ const manufacturingGuideCards = [
     bodyKey: 'encyclopedia.manufacturingGuideStepPublicSalesBody',
     productSlug: 'basic-medicine',
   },
+]
+
+const manufacturingGuideTopics = [
+  'encyclopedia.manufacturingGuideTopicPurchase',
+  'encyclopedia.manufacturingGuideTopicManufacturing',
+  'encyclopedia.manufacturingGuideTopicStorage',
+  'encyclopedia.manufacturingGuideTopicPublicSales',
 ]
 
 const catalogEntries = computed<CatalogEntry[]>(() => {
@@ -399,6 +406,12 @@ function navigateToEntry(slug: string) {
         <section class="flex flex-col gap-3">
           <h2 class="m-0">{{ t('encyclopedia.manufacturingGuideTitle') }}</h2>
           <p class="text-muted m-0">{{ t('encyclopedia.manufacturingGuideSubtitle') }}</p>
+          <h3 class="m-0 text-base mt-2">{{ t('encyclopedia.manufacturingGuideTopicsTitle') }}</h3>
+          <ul class="m-0 pl-5 text-sm text-muted flex flex-col gap-1">
+            <li v-for="topic in manufacturingGuideTopics" :key="topic">
+              {{ t(topic) }}
+            </li>
+          </ul>
           <div class="grid grid-cols-1 md:grid-cols-2 xl:grid-cols-4 gap-4 mt-2">
             <article v-for="card in manufacturingGuideCards" :key="card.titleKey" class="manufacturing-help-card rounded-xl border border-divider bg-page overflow-hidden">
               <button

diff --git a/projects/frontend/e2e/onboarding-help-screenshots.spec.ts b/projects/frontend/e2e/onboarding-help-screenshots.spec.ts
@@ -1,0 +1,57 @@
+import { expect, test } from '@playwright/test'
+import path from 'node:path'
+import fs from 'node:fs'
+import { fileURLToPath } from 'node:url'
+import { setupMockApi } from './helpers/mock-api.js'
+
+const currentDir = path.dirname(fileURLToPath(import.meta.url))
+const OUTPUT_DIR = path.resolve(currentDir, '../public/onboarding-help')
+
+const STARTER_FACTORY_LOT_NAME = /Factory Site B1/i
+
+test.describe('Onboarding help FullHD screenshots', () => {
+  test('capture six real 1920x1080 onboarding steps', async ({ page }) => {
+    fs.mkdirSync(OUTPUT_DIR, { recursive: true })
+
+    setupMockApi(page)
+    await page.setViewportSize({ width: 1920, height: 1080 })
+
+    await page.goto('/onboarding')
+
+    const step1Path = path.join(OUTPUT_DIR, 'step-1-industry.png')
+    await page.screenshot({ path: step1Path })
+    expect(fs.existsSync(step1Path)).toBeTruthy()
+
+    await page.locator('.industry-card', { hasText: 'Furniture' }).click()
+    await expect(page.getByRole('heading', { name: 'Choose Your First Product' })).toBeVisible()
+    const step2Path = path.join(OUTPUT_DIR, 'step-2-product.png')
+    await page.screenshot({ path: step2Path })
+    expect(fs.existsSync(step2Path)).toBeTruthy()
+
+    await page.locator('.product-card', { hasText: 'Wooden Chair' }).click()
+    await expect(page.getByRole('heading', { name: 'Choose Your City' })).toBeVisible()
+    const step3Path = path.join(OUTPUT_DIR, 'step-3-city.png')
+    await page.screenshot({ path: step3Path })
+    expect(fs.existsSync(step3Path)).toBeTruthy()
+
+    await page.locator('.city-card', { hasText: 'Bratislava' }).click()
+    await expect(page.getByRole('heading', { name: 'Choose Your IPO Plan' })).toBeVisible()
+    const step4Path = path.join(OUTPUT_DIR, 'step-4-ipo.png')
+    await page.screenshot({ path: step4Path })
+    expect(fs.existsSync(step4Path)).toBeTruthy()
+
+    await page.locator('.ipo-card', { hasText: 'Starter IPO' }).click()
+    await expect(page.getByRole('heading', { name: 'Choose Your First Factory Lot' })).toBeVisible()
+    const step5Path = path.join(OUTPUT_DIR, 'step-5-factory-lot.png')
+    await page.screenshot({ path: step5Path })
+    expect(fs.existsSync(step5Path)).toBeTruthy()
+
+    await page.getByRole('button', { name: 'List View' }).click()
+    await page.getByRole('button', { name: STARTER_FACTORY_LOT_NAME }).click()
+    await page.getByRole('button', { name: 'Purchase First Factory' }).click()
+    await expect(page.getByRole('heading', { name: 'Choose Your First Shop Lot' })).toBeVisible()
+    const step6Path = path.join(OUTPUT_DIR, 'step-6-shop-lot.png')
+    await page.screenshot({ path: step6Path })
+    expect(fs.existsSync(step6Path)).toBeTruthy()
+  })
+})

diff --git a/ROADMAP.md b/ROADMAP.md
@@ -74,8 +74,8 @@ It will use real world map. The game will start in single city and later other c
 
 ### Encyclopedia (100% complete)
 
-- [ ] Update help section with onboarding help. Please document the onboarding and create also  full hd pictures from the onboarding process so that users can easier be onboarded. For each step create 100 word definition describing what they players are doing.
-- [ ] Update help section with manufacturing unit setup in the factories. Create list of the topics. Please document the manufacturing setup, how units are created, what every unit type is doing and create also full hd pictures so that users can understand the game better. For every topic also create at least 100 word description on what player is doing.
+- [x] Update help section with onboarding help. Please document the onboarding and create also  full hd pictures from the onboarding process so that users can easier be onboarded. For each step create 100 word definition describing what they players are doing.
+- [x] Update help section with manufacturing unit setup in the factories. Create list of the topics. Please document the manufacturing setup, how units are created, what every unit type is doing and create also full hd pictures so that users can understand the game better. For every topic also create at least 100 word description on what player is doing.
 
 ### Referal program (0% complete)
 
